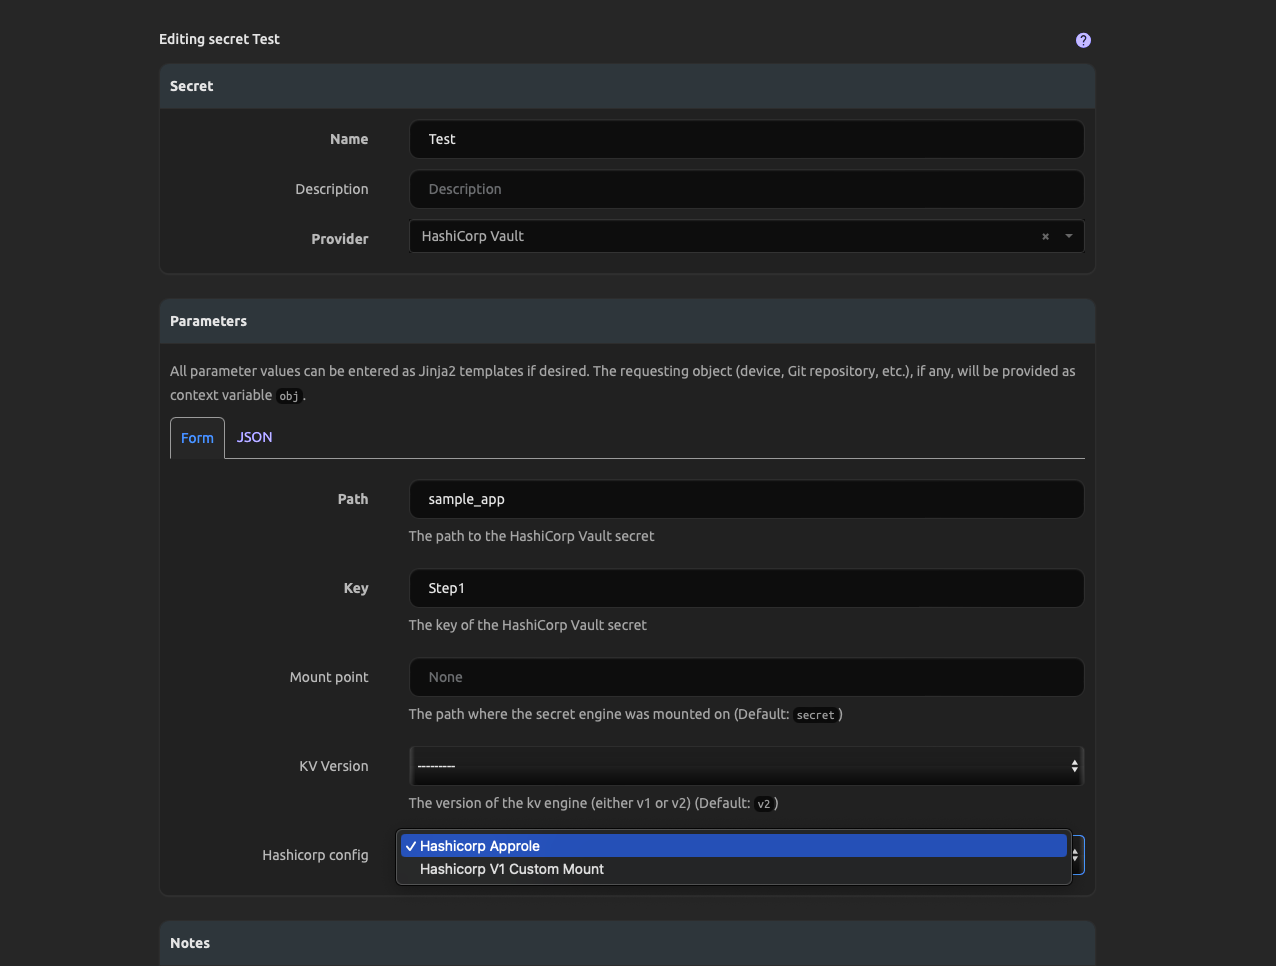
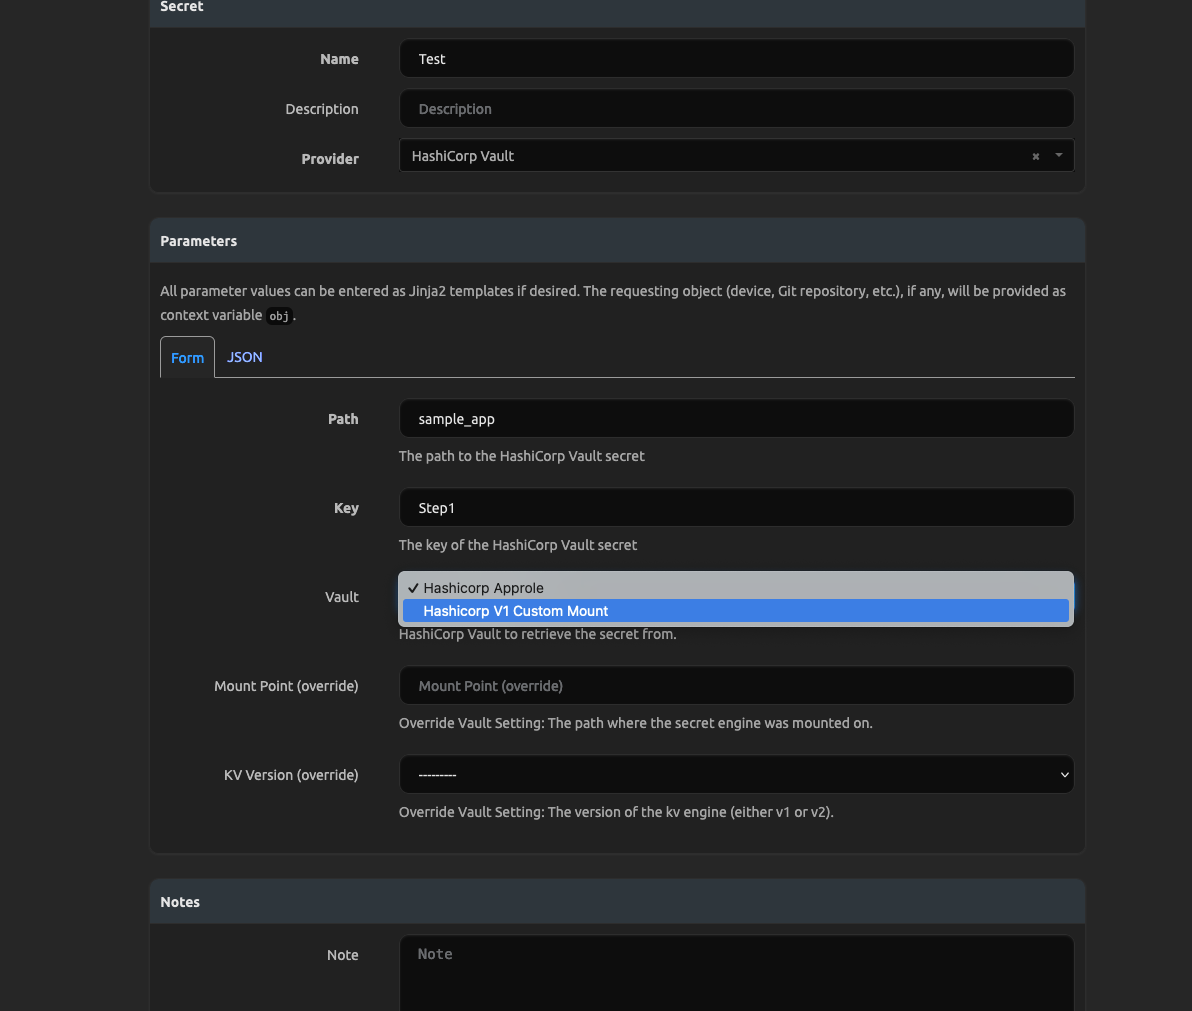
Apply suggestions.

diff --git a/nautobot_secrets_providers/providers/hashicorp.py b/nautobot_secrets_providers/providers/hashicorp.py
@@ -24,25 +24,17 @@ K8S_TOKEN_DEFAULT_PATH = "/var/run/secrets/kubernetes.io/serviceaccount/token"  
 AUTH_METHOD_CHOICES = ["approle", "aws", "kubernetes", "token"]
 
 
-def hashicorp_vault_choices():
-    """Generate Choices for hashicorp_vault form field.
+def vault_choices():
+    """Generate Choices for vault form field.
 
-    If `vaults` is a key in the hashicorp_vault config,
+    If `vaults` is a key in the vault config,
     then we build a form option for each key in vaults.
     Otherwise we fall "Default" to make this a non-breaking change.
     """
-    choices = []
     plugin_settings = settings.PLUGINS_CONFIG["nautobot_secrets_providers"]
-    try:
-        if plugin_settings["hashicorp_vault"].get("vaults"):
-            choices.extend(
-                (key, key.replace("_", " ").title()) for key in plugin_settings["hashicorp_vault"]["vaults"].keys()
-            )
-        else:
-            choices.append(("default", "Default"))
-    except KeyError:
-        choices.append(("default", "Default"))
-    return choices
+    if "vaults" in plugin_settings["hashicorp_vault"]:
+        return [(key, key.replace("_", " ").title()) for key in plugin_settings["hashicorp_vault"]["vaults"].keys()]
+    return [("default", "Default")]
 
 
 class HashiCorpVaultSecretsProvider(SecretsProvider):
@@ -65,20 +57,20 @@ class HashiCorpVaultSecretsProvider(SecretsProvider):
             required=True,
             help_text="The key of the HashiCorp Vault secret",
         )
-        hashicorp_vault = forms.ChoiceField(
+        vault = forms.ChoiceField(
             required=False,  # This should be required, but would be a breaking change
-            choices=hashicorp_vault_choices,
-            help_text="HashiCorp Vault where secret is stored in.",
+            choices=vault_choices,
+            help_text="HashiCorp Vault to retrieve the secret from.",
         )
         mount_point = forms.CharField(
             required=False,
-            help_text="Override Vault Setting: The path where the secret engine was mounted on (Default: <code>secret</code>)",
+            help_text="Override Vault Setting: The path where the secret engine was mounted on.",
             label="Mount Point (override)",
         )
         kv_version = forms.ChoiceField(
             required=False,
             choices=add_blank_choice(HashicorpKVVersionChoices),
-            help_text="Override Vault Setting: The version of the kv engine (either v1 or v2) (Default: <code>v2</code>)",
+            help_text="Override Vault Setting: The version of the kv engine (either v1 or v2).",
             label="KV Version (override)",
         )
 
@@ -93,21 +85,20 @@ class HashiCorpVaultSecretsProvider(SecretsProvider):
             vault_settings (dict): Hashicorp Vault Settings
         """
         vault_settings = settings.PLUGINS_CONFIG["nautobot_secrets_providers"].get("hashicorp_vault", {})
-        if name and name != "default":
-            vault_settings = settings.PLUGINS_CONFIG["nautobot_secrets_providers"]["hashicorp_vault"]["vaults"].get(
-                name, {}
-            )
+        if name and "vaults" in vault_settings:
+            return vault_settings["vaults"][name]
         return vault_settings
 
     @classmethod
     def validate_vault_settings(cls, secret=None, vault_name=None):
         """Validate the vault settings."""
-        vault_settings = cls.retrieve_vault_settings(vault_name)
-        # This is only required for HashiCorp Vault therefore not defined in
-        # `required_settings` for the plugin config.
+        try:
+            vault_settings = cls.retrieve_vault_settings(vault_name)
+        except KeyError as err:
+            raise exceptions.SecretProviderError(
+                secret, cls, f"HashiCorp Vault {vault_name} is not configured!"
+            ) from err
         if not vault_settings:
-            if vault_name is None:
-                vault_name = "default"
             raise exceptions.SecretProviderError(secret, cls, f"HashiCorp Vault {vault_name} is not configured!")
 
         auth_method = vault_settings.get("auth_method", "token")
@@ -142,7 +133,7 @@ class HashiCorpVaultSecretsProvider(SecretsProvider):
         return vault_settings
 
     @classmethod
-    def get_client(cls, secret=None, vault_name=None):
+    def get_client(cls, secret=None, vault_name=None):  # pylint: disable-msg=too-many-locals
         """Authenticate and return a hashicorp client."""
         vault_settings = cls.validate_vault_settings(secret, vault_name)
         auth_method = vault_settings.get("auth_method", "token")
@@ -155,6 +146,8 @@ class HashiCorpVaultSecretsProvider(SecretsProvider):
         # so we use a parameter to specify the path to the ca_cert, if not provided we use the default of None
         ca_cert = vault_settings.get("ca_cert", None)
 
+        namespace = vault_settings.get("namespace", None)
+
         # Get the client and attempt to retrieve the secret.
         try:
             if auth_method == "token":
@@ -162,12 +155,10 @@ class HashiCorpVaultSecretsProvider(SecretsProvider):
                     url=vault_settings["url"],
                     token=vault_settings["token"],
                     verify=ca_cert,
-                    namespace=vault_settings.get("namespace", None),
+                    namespace=namespace,
                 )
             else:
-                client = hvac.Client(
-                    url=vault_settings["url"], verify=ca_cert, namespace=vault_settings.get("namespace", None)
-                )
+                client = hvac.Client(url=vault_settings["url"], verify=ca_cert, namespace=namespace)
                 if auth_method == "approle":
                     client.auth.approle.login(
                         role_id=vault_settings["role_id"],
@@ -207,7 +198,7 @@ class HashiCorpVaultSecretsProvider(SecretsProvider):
         # Try to get parameters and error out early.
         parameters = secret.rendered_parameters(obj=obj)
         try:
-            vault_name = parameters.get("hashicorp_vault", "default")
+            vault_name = parameters.get("vault", "default")
             vault_settings = cls.retrieve_vault_settings(vault_name)
         except KeyError:
             vault_settings = {}

diff --git a/nautobot_secrets_providers/tests/test_providers.py b/nautobot_secrets_providers/tests/test_providers.py
@@ -18,7 +18,7 @@ from nautobot_secrets_providers.providers import (
     AWSSystemsManagerParameterStore,
     HashiCorpVaultSecretsProvider,
 )
-from nautobot_secrets_providers.providers.hashicorp import hashicorp_vault_choices
+from nautobot_secrets_providers.providers.hashicorp import vault_choices
 
 from nautobot_secrets_providers.providers.choices import HashicorpKVVersionChoices
 
@@ -208,7 +208,7 @@ class HashiCorpVaultSecretsProviderTestCase(SecretsProviderTestCase):
             parameters={
                 "path": "hello",
                 "key": "location",
-                "hashicorp_vault": "example",
+                "vault": "example",
             },
         )
 
@@ -319,6 +319,25 @@ class HashiCorpVaultSecretsProviderTestCase(SecretsProviderTestCase):
         with self.settings(PLUGINS_CONFIG=multiple_plugins_config):
             response = self.provider.get_value_for_secret(self.secret_configuration)
             self.assertEqual(self.mock_response["data"]["data"]["location"], response)
+
+    def test_retrieve_configuration_non_configured_vault(self):
+        multiple_plugins_config = {
+            "nautobot_secrets_providers": {
+                "hashicorp_vault": {
+                    "vaults": {
+                        "example": {"token": "nautobot", "url": "http://localhost:8200"},
+                        "example_2": {"token": "nautobot", "url": "http://example.com"},
+                    }
+                }
+            }
+        }
+        with self.settings(PLUGINS_CONFIG=multiple_plugins_config):
+            with self.assertRaises(exceptions.SecretProviderError) as err:
+                self.provider.validate_vault_settings(self.secret, "test")
+        self.assertEqual(
+            str(err.exception),
+            'SecretProviderError: Secret "hello-hashicorp" (provider "HashiCorpVaultSecretsProvider"): HashiCorp Vault test is not configured!',
+        )
 
     @requests_mock.Mocker()
     def test_retrieve_invalid_parameters(self, requests_mocker):
@@ -441,10 +460,28 @@ class HashiCorpVaultSecretsProviderTestCase(SecretsProviderTestCase):
         returned_settings = self.provider.validate_vault_settings(self.secret, "default")
         self.assertEqual(returned_settings, settings.PLUGINS_CONFIG["nautobot_secrets_providers"]["hashicorp_vault"])
 
+        # Test with named default configuration
+        multiple_plugins_config = {
+            "nautobot_secrets_providers": {
+                "hashicorp_vault": {
+                    "vaults": {
+                        "default": {"token": "nautobot", "url": "http://localhost:8200"},
+                        "example_2": {"token": "nautobot", "url": "http://example.com"},
+                    }
+                }
+            }
+        }
+        with self.settings(PLUGINS_CONFIG=multiple_plugins_config):
+            returned_settings = self.provider.validate_vault_settings(self.secret, "default")
+            self.assertEqual(
+                returned_settings,
+                settings.PLUGINS_CONFIG["nautobot_secrets_providers"]["hashicorp_vault"]["vaults"]["default"],
+            )
+
         # No nautobot_secrets_providers
         with self.settings(PLUGINS_CONFIG={"nautobot_secrets_providers": {}}):
             with self.assertRaises(exceptions.SecretProviderError) as err:
-                self.provider.validate_vault_settings(self.secret)
+                self.provider.validate_vault_settings(self.secret, "default")
         self.assertEqual(
             str(err.exception),
             'SecretProviderError: Secret "hello-hashicorp" (provider "HashiCorpVaultSecretsProvider"): HashiCorp Vault default is not configured!',
@@ -590,8 +627,8 @@ class HashiCorpVaultSecretsProviderTestCase(SecretsProviderTestCase):
                 'SecretProviderError: Secret "hello-hashicorp" (provider "HashiCorpVaultSecretsProvider"): HashiCorp Vault Login failed (auth_method: aws). Error: , on post http://localhost:8200/v1/auth/aws/login',
             )
 
-    def test_hashicorp_vault_choices(self):
-        choices = hashicorp_vault_choices()
+    def test_vault_choices(self):
+        choices = vault_choices()
         self.assertEqual(choices, [("default", "Default")])
         multiple_plugins_config = {
             "nautobot_secrets_providers": {
@@ -604,7 +641,7 @@ class HashiCorpVaultSecretsProviderTestCase(SecretsProviderTestCase):
             }
         }
         with self.settings(PLUGINS_CONFIG=multiple_plugins_config):
-            choices = hashicorp_vault_choices()
+            choices = vault_choices()
             self.assertEqual(choices, [("example", "Example"), ("example_2", "Example 2")])
 
 

diff --git a/development/nautobot_config.py b/development/nautobot_config.py
@@ -145,22 +145,22 @@ PLUGINS_CONFIG = {
             "username": os.getenv("SECRET_SERVER_USERNAME", ""),
         },
         "hashicorp_vault": {
-            "url": os.environ.get("HASHICORP_VAULT_URL"),
-            "token": os.environ.get("HASHICORP_VAULT_TOKEN"),
-            # "vaults": {
-            #     "hashicorp_approle": {
-            #         "url": os.environ.get("HASHICORP_VAULT_URL"),
-            #         "auth_method": "approle",
-            #         "role_id": os.getenv("NAUTOBOT_HASHICORP_VAULT_ROLE_ID"),
-            #         "secret_id": os.getenv("NAUTOBOT_HASHICORP_VAULT_SECRET_ID"),
-            #     },
-            #     "hashicorp_v1_custom_mount": {
-            #         "url": os.environ.get("HASHICORP_VAULT_URL"),
-            #         "token": os.environ.get("HASHICORP_VAULT_TOKEN"),
-            #         "kv_version": "v1",
-            #         "default_mount_point": "secret_kv",
-            #     },
-            # }
+            # "url": os.environ.get("HASHICORP_VAULT_URL"),
+            # "token": os.environ.get("HASHICORP_VAULT_TOKEN"),
+            "vaults": {
+                "hashicorp_approle": {
+                    "url": os.environ.get("HASHICORP_VAULT_URL"),
+                    "auth_method": "approle",
+                    "role_id": os.getenv("NAUTOBOT_HASHICORP_VAULT_ROLE_ID"),
+                    "secret_id": os.getenv("NAUTOBOT_HASHICORP_VAULT_SECRET_ID"),
+                },
+                "hashicorp_v1_custom_mount": {
+                    "url": os.environ.get("HASHICORP_VAULT_URL"),
+                    "token": os.environ.get("HASHICORP_VAULT_TOKEN"),
+                    "kv_version": "v1",
+                    "default_mount_point": "secret_kv",
+                },
+            }
         },
     },
 }
